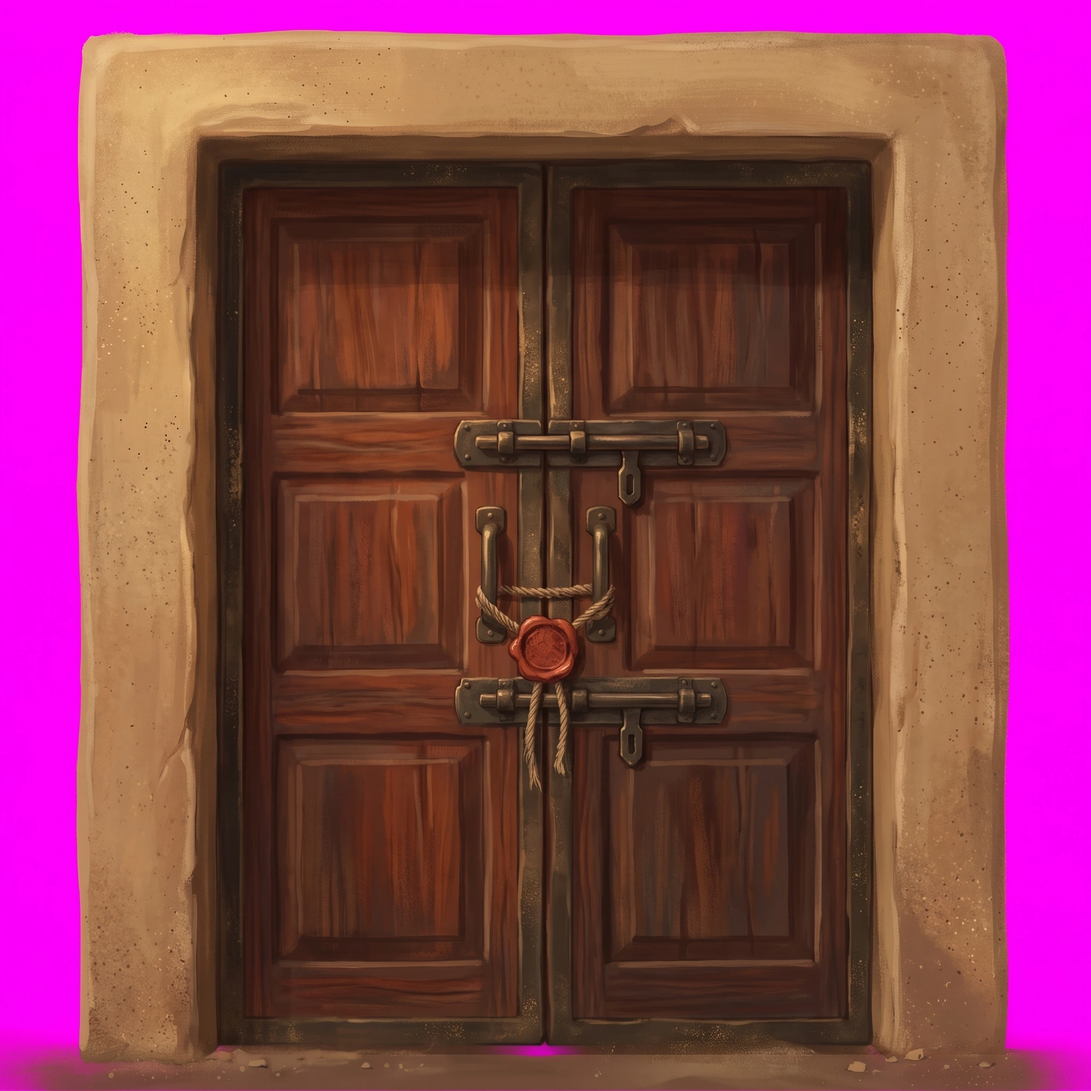
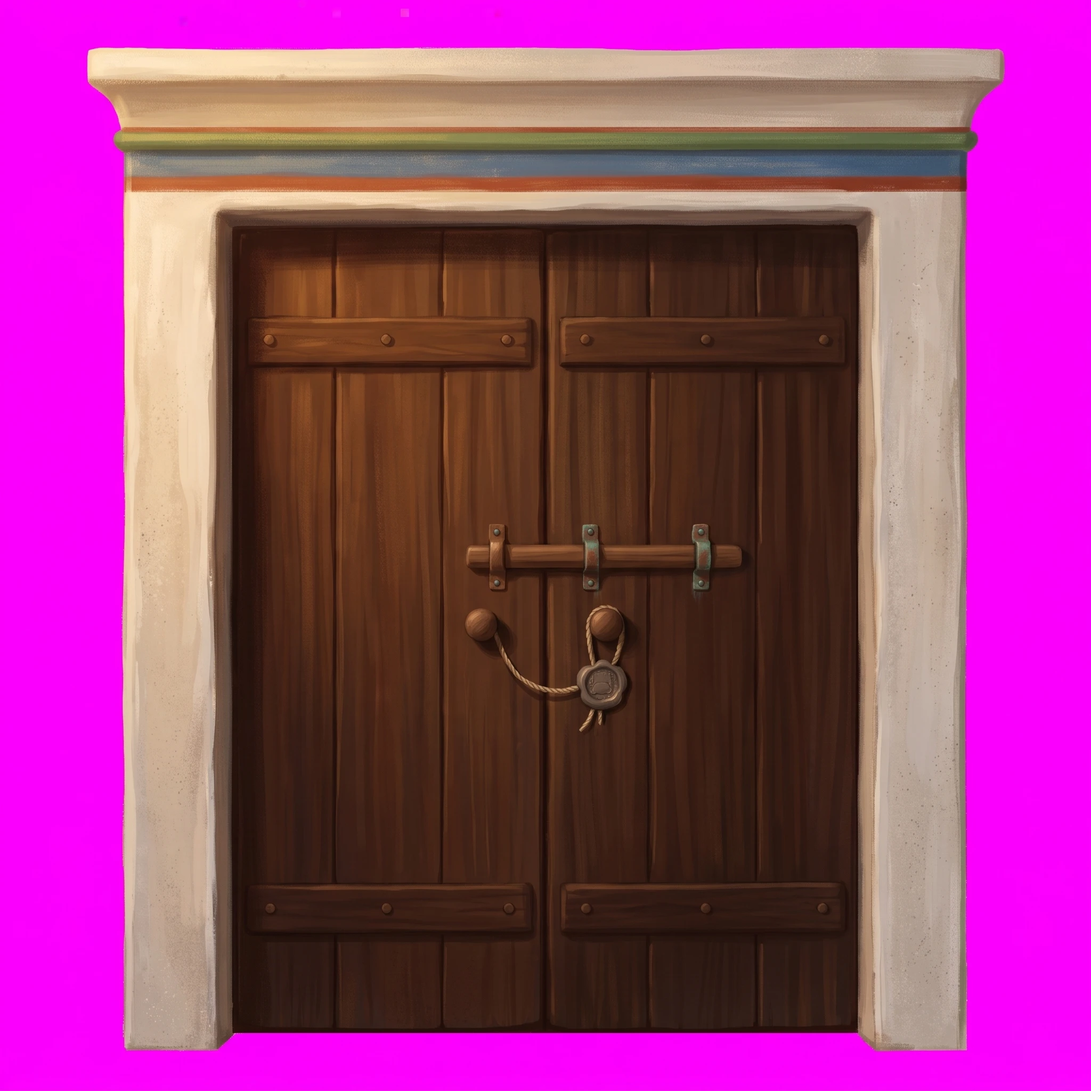
nobleman's ward door painted

diff --git a/docs/instructions/repaint-queue.md b/docs/instructions/repaint-queue.md
@@ -512,30 +512,6 @@ The last nine are the house's own kinds, new with its activities ([themed-rooms.
 banquet table and the bed are two cells across, so their frame is landscape three by two; the harp and the
 potted tree stand a cell taller, so theirs is portrait two by five.
 
-## Ward doors — one
-
-The door the gate popup shows behind a ward gate. The first nobleman's door came back European: raised
-panels, iron barrel bolts and a red wax seal. The prompt now names what an Egyptian door is made of, and
-says what it is not.
-
-### `door/ward-junior` — the nobleman's ward door
-
-1. `art/masters/surfaces/junior-wall-face.webp` — the junior wall face, for the brushwork and the colours only
-
-```
-FRAME: square, 1:1. The door stands alone, centred and seen straight on, filling about 85% of the height. Do not crop it and do not re-compose it.
-
-STYLE: hand-painted digital art, matte: soft brush texture, grit and speckle, NO outlines anywhere, every edge is a change of value between painted areas. Even, soft light from the upper left, lamplit and warm. No glow cast on anything, no light pool, no cast shadow, no ground, no floor, no steps. No text, no letters, no hieroglyphs, no figures, no border.
-
-THE ATTACHED IMAGE IS A WALL, already painted in the finished style of this set. Take ONLY its brushwork and its colour range. Nothing of the wall itself appears in the picture.
-
-SUBJECT: An ancient Egyptian nobleman's house door. A double-leaf door of dark cedar, each leaf made of plain vertical planks held by two horizontal battens fixed with wooden pegs, the wood smooth and well oiled. NO raised panels, NO iron, NO European hardware. The doorway is a frame of whitewashed plaster with a cavetto cornice over the lintel, the cornice painted in bands of red ochre, Egyptian blue and leaf green. A single wooden bolt slides across both leaves through copper staples gone faintly verdigris. A linen cord runs between two wooden knobs, one on each leaf, sealed with a lump of grey-brown Nile clay pressed flat with a seal, NOT red wax. Well kept, the owner's wealth in the wood and the painted cornice. The door is shut.
-
-BACKGROUND: a flat, solid #ff00ff magenta (red 255 green 0 blue 255) that fills the whole square canvas to all four edges, right up to the door's frame. No wall, no gradient, no shadow.
-```
-
-**Import:** `yarn import-camp <file> --out-dir=src/assets/doors --name=ward-junior --size=512`
-
 ## Priest — fifteen
 
 His CHAMBER props, and none of them existed as a model until now: his rank had nothing but the veil and
